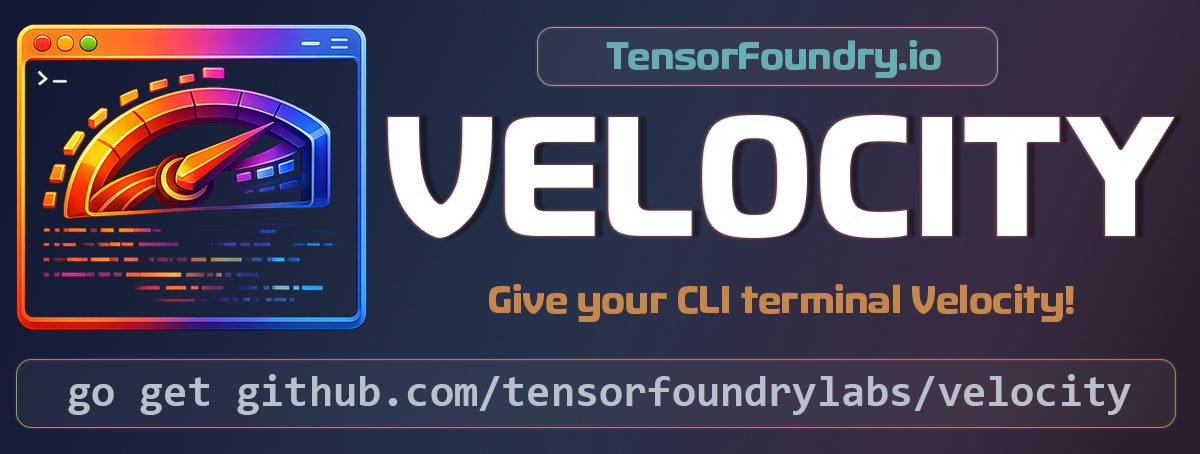
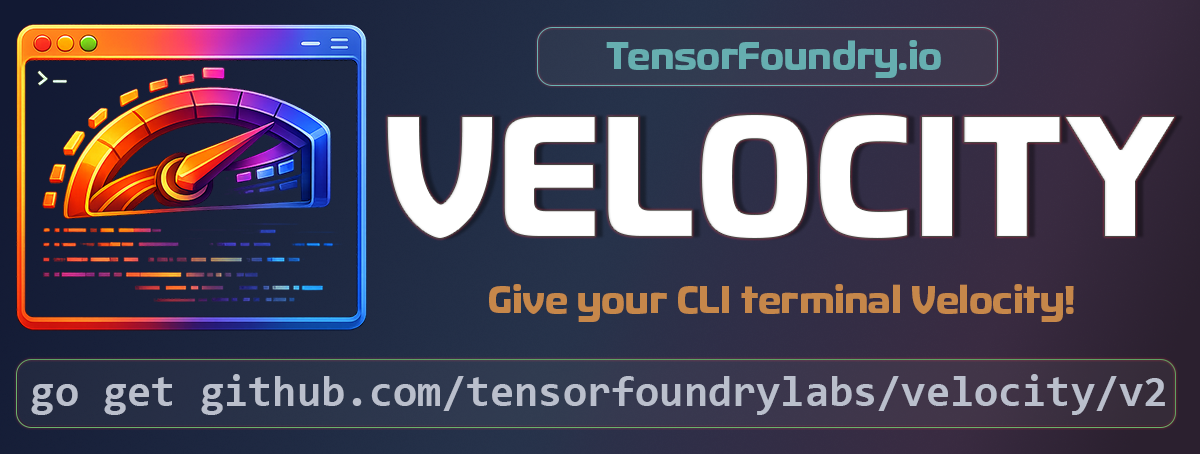
docs

Changed region(s): [[0.0, 0.8326, 0.9867, 0.9251]]

diff --git a/README.md b/README.md
@@ -27,9 +27,9 @@ log.Info("server started", velocity.String("addr", ":8080"), velocity.Int("worke
 
 ```go
 import (
-    "github.com/tensorfoundrylabs/velocity/v2"                          // core logging, writers, renderables, themes
-    "github.com/tensorfoundrylabs/velocity/v2/live"                     // spinners and progress bars
-    slogbridge "github.com/tensorfoundrylabs/velocity/v2/slogbridge"    // log/slog bridge
+    "github.com/tensorfoundrylabs/velocity/v2"           // core logging, writers, renderables, themes
+    "github.com/tensorfoundrylabs/velocity/v2/live"      // spinners and progress bars
+    "github.com/tensorfoundrylabs/velocity/v2/slogbridge" // log/slog bridge
 )
 ```
 
@@ -199,7 +199,7 @@ log.Continue(velocity.LevelInfo, "Server listening",
 ### log/slog bridge
 
 ```go
-import slogbridge "github.com/tensorfoundrylabs/velocity/v2/slogbridge"
+import "github.com/tensorfoundrylabs/velocity/v2/slogbridge"
 
 vlog := velocity.New(velocity.WithDevelopment())
 slog.SetDefault(slogbridge.NewLogger(vlog))
